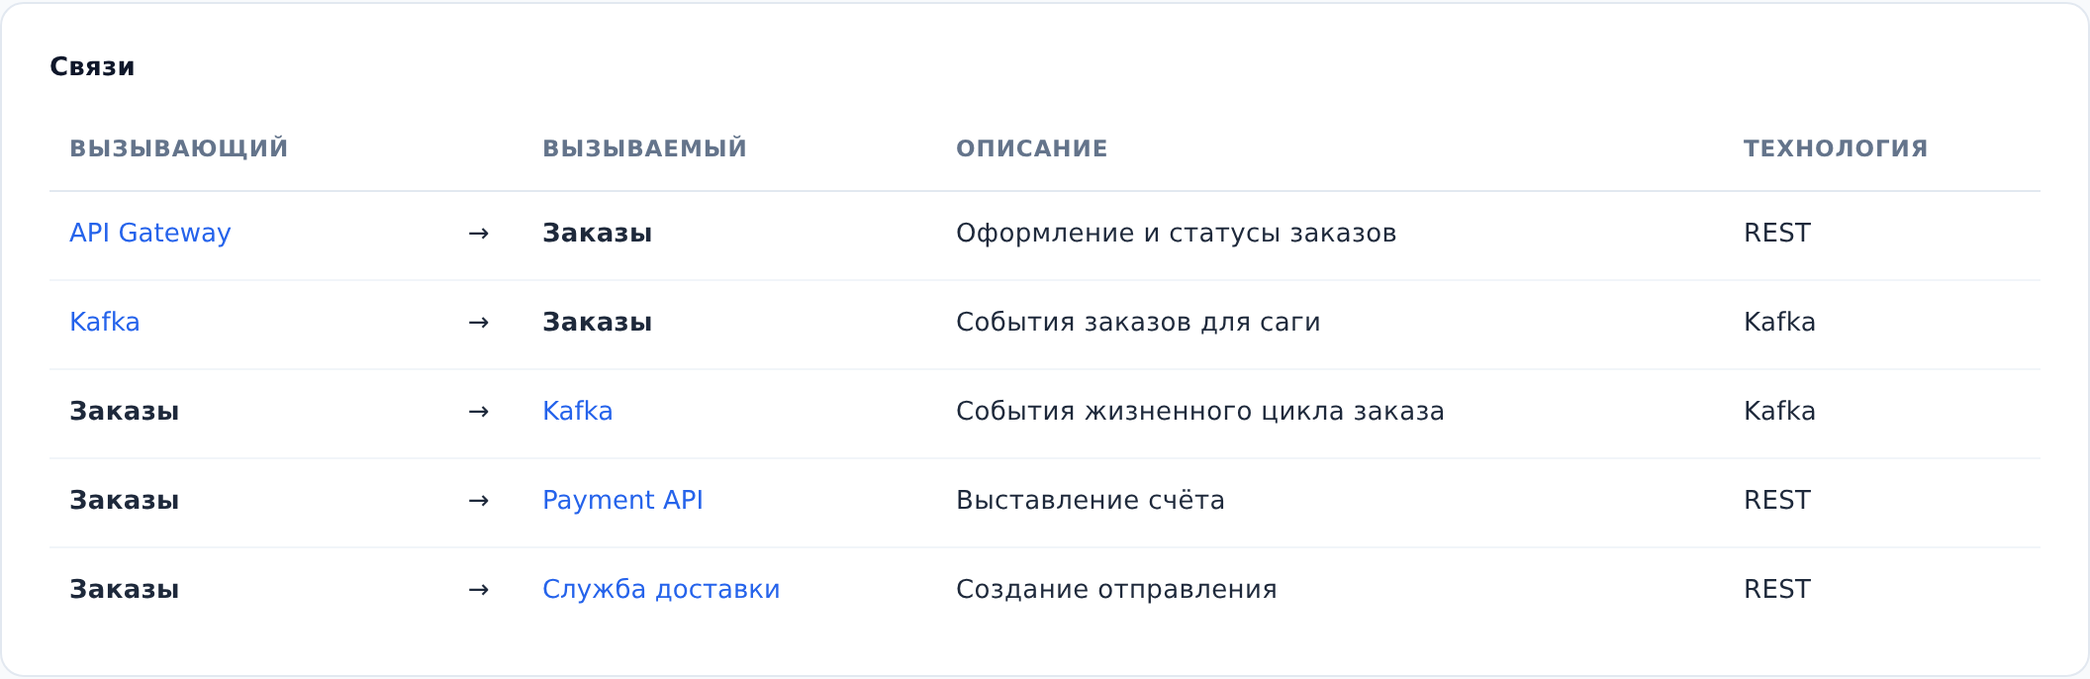
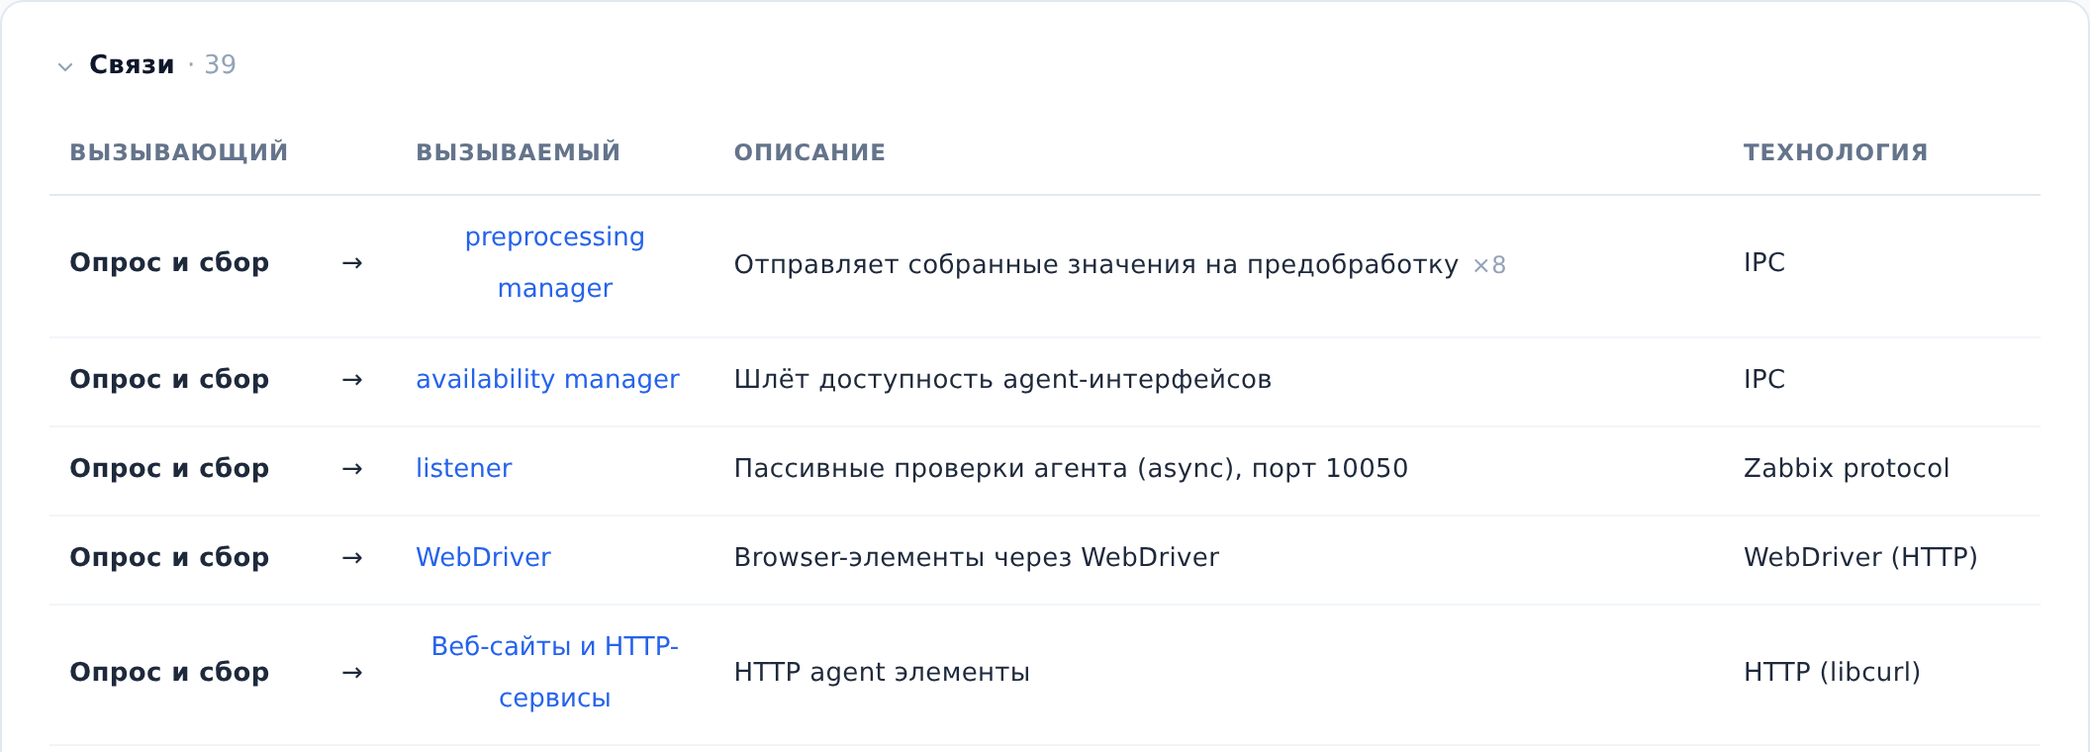
docs: связи без повторов в таблице и на схеме
Раздел «Связи» страницы объекта сводит одинаковые связи (направление, объект
снаружи, описание и технология) в одну строку с числом «×N» и сворачивается
заголовком: «Просмотреть связи сервиса» больше не обещает строку на каждую связь
и называет, как развернуть раздел. Окно «Выберите связь» называет концы стрелки,
а у каждой связи объект на её конце; подпись стрелки с несколькими связями
перечисляет только различные подписи. «Добавить связи между объектами»: строка
с несколькими связями сначала открывает окно выбора, конец связи «переносят», а
не «перевешивают». Схема развёртывания: окно выбора открывается по стрелке, на
которую легли несколько связей, проектируемый объект помечен «проектируется»,
поиск «Поиск по имени» без многоточия.

Кадр object-edges.png переснят на стенде archmap_docs: раздел «Связи · 39»
системы «Опрос и сбор» (Zabbix server) со строкой «×8»; у «Заказов» одинаковых
связей нет.

diff --git a/content/user/deployment.md b/content/user/deployment.md
@@ -24,7 +24,7 @@ order: 3
 - система, все контейнеры которой стоят на одном и том же наборе площадок, показана одной карточкой с пунктирным контуром и числом контейнеров. Если контейнеры системы стоят на разных площадках, вместо системы показаны сами контейнеры;
 - объекты без размещения собраны в пунктирную группу **Размещение не указано**;
 - стрелки идут между карточками так же, как на схеме объектов. Если у объекта несколько экземпляров, стрелка ведёт к ближайшему из них: на той же площадке или на площадке с тем же родителем. Равноудалённые экземпляры получают стрелку все;
-- цвет карточки и метки **новый** и **выводится** те же, что на схеме объектов. Кнопка **Легенда** в углу схемы расшифровывает обозначения.
+- цвет карточки и метки **проектируется** и **выводится** те же, что на схеме объектов. Кнопка **Легенда** в углу схемы расшифровывает обозначения.
 :::
 
 ::: note
@@ -36,7 +36,7 @@ order: 3
 Чтобы найти объект на схеме развёртывания, в дереве слева нажмите на объект. На схеме выделятся все его карточки, и схема подведёт их в кадр. Если объекта нет на текущем уровне, сначала откроется уровень его родителя.
 
 ::: note
-Компонентов в этом дереве нет, но поле **Поиск по имени…** над деревом находит и их. Рядом с найденным компонентом серым указан его контейнер, например **в «Оркестратор заказа»**, а нажатие на компонент показывает на схеме этот контейнер.
+Компонентов в этом дереве нет, но поле **Поиск по имени** над деревом находит и их. Рядом с найденным компонентом серым указан его контейнер, например **в «Оркестратор заказа»**, а нажатие на компонент показывает на схеме этот контейнер.
 :::
 
 Чтобы узнать размещение объекта с его страницы, откройте страницу объекта (см. [Перемещаться по уровням схемы](levels.md)). В разделе **Свойства** в строке **Размещение** перечислены площадки, где стоит объект; у вложенной площадки указан родитель, например **Кластер prod в Облако**. У системы перечислены площадки её контейнеров, а если на площадке стоит только часть контейнеров, рядом есть пометка **часть контейнеров**. У компонента перечислены площадки его контейнера с пометкой **как у контейнера «…»**. Если размещение не указано, в строке написано **не указано**. У внешней системы в строке написано **не ведётся у внешней системы**, а у пользователя строки **Размещение** нет.
@@ -66,7 +66,7 @@ order: 3
 
 ## Разобрать связи
 
-Связи на схеме развёртывания разбирают так же, как на схеме объектов: двойное нажатие на стрелку или нажатие на её подпись подсвечивает связь и оба её объекта, а если на общем участке лежат несколько связей, откроется окно **Выберите связь** (см. [Просмотреть связи сервиса](edges.md)). Двойное нажатие на пустое место снимает подсветку.
+Связи на схеме развёртывания можно разобрать так же, как на схеме объектов: двойное нажатие на стрелку или её подпись подсвечивает связь и оба её объекта, а если на стрелку легли несколько связей, откроется окно **Выберите связь** (см. [Просмотреть связи сервиса](edges.md#просмотреть-связи-на-схеме)). Двойное нажатие на пустое место снимает подсветку.
 
 ::: note
 Кнопка **Подписи связей** над схемой скрывает подписи стрелок, когда их слишком много. Настройка общая со схемой объектов и запоминается для каждого проекта отдельно в этом браузере. Кнопка **Площадки** открывает окно с деревом площадок проекта: вид, имя и технология каждой.

diff --git a/content/user/edges.md b/content/user/edges.md
@@ -12,10 +12,14 @@ order: 5
 Чтобы просмотреть связи сервиса в таблице, выполните следующие действия:
 
 1. Откройте страницу сервиса (см. [Найти документацию сервиса](find-service.md)).
-2. Прокрутите страницу до раздела **Связи**. Каждая строка таблицы описывает одну связь: кто вызывает, кого вызывает, описание и технология.
+2. Прокрутите страницу до раздела **Связи**. Если раздел свёрнут, разверните его. Для этого нажмите на заголовок **Связи**.
 3. В нужной строке нажмите на имя другого объекта. Откроется его страница.
 
-![Раздел Связи](../images/object-edges.png "Раздел Связи на странице системы «Заказы»: вызывающий, вызываемый, описание и технология")
+![Раздел Связи](../images/object-edges.png "Раздел Связи на странице системы «Опрос и сбор» проекта Zabbix 7: восемь одинаковых связей с preprocessing manager показаны одной строкой ×8")
+
+::: note
+Связи, у которых совпадают направление, объект снаружи, описание и технология, показаны одной строкой. После описания в ней стоит число таких связей (например, **×10**). С какими вложенными объектами связана каждая из них, видно на схеме (см. [Просмотреть связи на схеме](#просмотреть-связи-на-схеме)).
+:::
 
 ::: note
 В таблице только внешние связи: объекта и всех вложенных в него объектов с объектами снаружи. Связи между вложенными объектами смотрите на схеме, раскрыв объект лупой (см. [Перемещаться по уровням схемы](levels.md)), или на страницах самих вложенных объектов.
@@ -32,8 +36,12 @@ order: 5
 1. На странице сервиса в разделе **Схема** включите схему. Для этого нажмите на неё.
 2. На схеме нажмите на сервис. Все его связи подсветятся.
 3. Дважды нажмите на нужную стрелку. Связь подсветится по всей длине, включая общие участки с другими стрелками.
-4. Если по одной линии идёт несколько связей, откроется окно **Выберите связь**. В списке нажмите нужную связь.
+4. Если на стрелку легли несколько связей, откроется окно **Выберите связь**. В списке нажмите нужную связь. Если концы у связей разные, под описанием каждой указан объект на её конце (например, **→ Каталог**).
 5. Дважды нажмите на объект на другом конце связи. Откроется его страница.
+
+::: note
+Несколько связей ложатся на одну стрелку, если у них общие концы на схеме (например, связи к разным объектам свёрнутой системы). Подпись такой стрелки перечисляет подписи этих связей, и одинаковые стоят в ней один раз. Поэтому и стрелка с одной подписью может нести несколько связей.
+:::
 
 ::: note
 Объекты с других уровней показаны на схеме пунктирной рамкой. Их страницы открываются так же, двойным нажатием.

diff --git a/content/architect/edges.md b/content/architect/edges.md
@@ -41,7 +41,7 @@ order: 3
 4. Нажмите кнопку **Создать связь**.
 
 ::: note
-Когда стрелку отпускают на системе или контейнере, ArchMap всегда предлагает выбрать объект внутри, потому что обращаются к конкретной части системы или контейнера. Связь, проведённую раньше к объекту, который потом стал системой или контейнером, можно перевесить на вложенный объект (см. [Изменить или удалить связь](#edit)).
+Когда стрелку отпускают на системе или контейнере, ArchMap всегда предлагает выбрать объект внутри, потому что обращаются к конкретной части системы или контейнера. Если связь провели раньше к объекту, который потом стал системой или контейнером, её конец можно перенести на вложенный объект (см. [Изменить или удалить связь](#edit)).
 :::
 
 ## Связать объект с объектом на другом уровне
@@ -63,7 +63,7 @@ order: 3
 Чтобы изменить или удалить связь в редакторе схемы, выполните следующие действия:
 
 1. Дважды нажмите на линию связи или её подпись. Справа откроется панель связи.
-2. Если по линии идёт несколько связей, откроется окно **Выберите связь**. В списке нажмите на нужную связь.
+2. Если на линию легли несколько связей, сначала откроется окно **Выберите связь**. В шапке окна указаны концы линии. Нажмите на нужную связь. Если концы у связей разные, под описанием каждой указан объект на её конце (например, **→ Каталог**).
 3. Измените нужные поля. Изменение сохраняется, когда вы переходите к другому полю.
 4. Чтобы удалить связь, нажмите кнопку **Удалить связь**.
 
@@ -77,7 +77,9 @@ order: 3
 
 Чтобы изменить или удалить связь на странице объекта, выполните следующие действия:
 
-1. На странице объекта в разделе **Связи** нажмите на строку связи. Откроется окно **Редактирование связи**.
+1. На странице объекта в разделе **Связи** нажмите на строку связи:
+    - если в строке одна связь, откроется окно **Редактирование связи**;
+    - если в строке несколько связей (после описания стоит их число, например, **×10**), откроется окно **Выберите связь**. Нажмите в нём на связь с нужным объектом (например, **→ Каталог**). Откроется окно **Редактирование связи**.
 2. Измените нужные поля. Кнопка **Развернуть направление** меняет концы связи местами.
 3. Нажмите кнопку **Готово**.
 4. Чтобы удалить связь, нажмите кнопку **Удалить** и подтвердите удаление.
